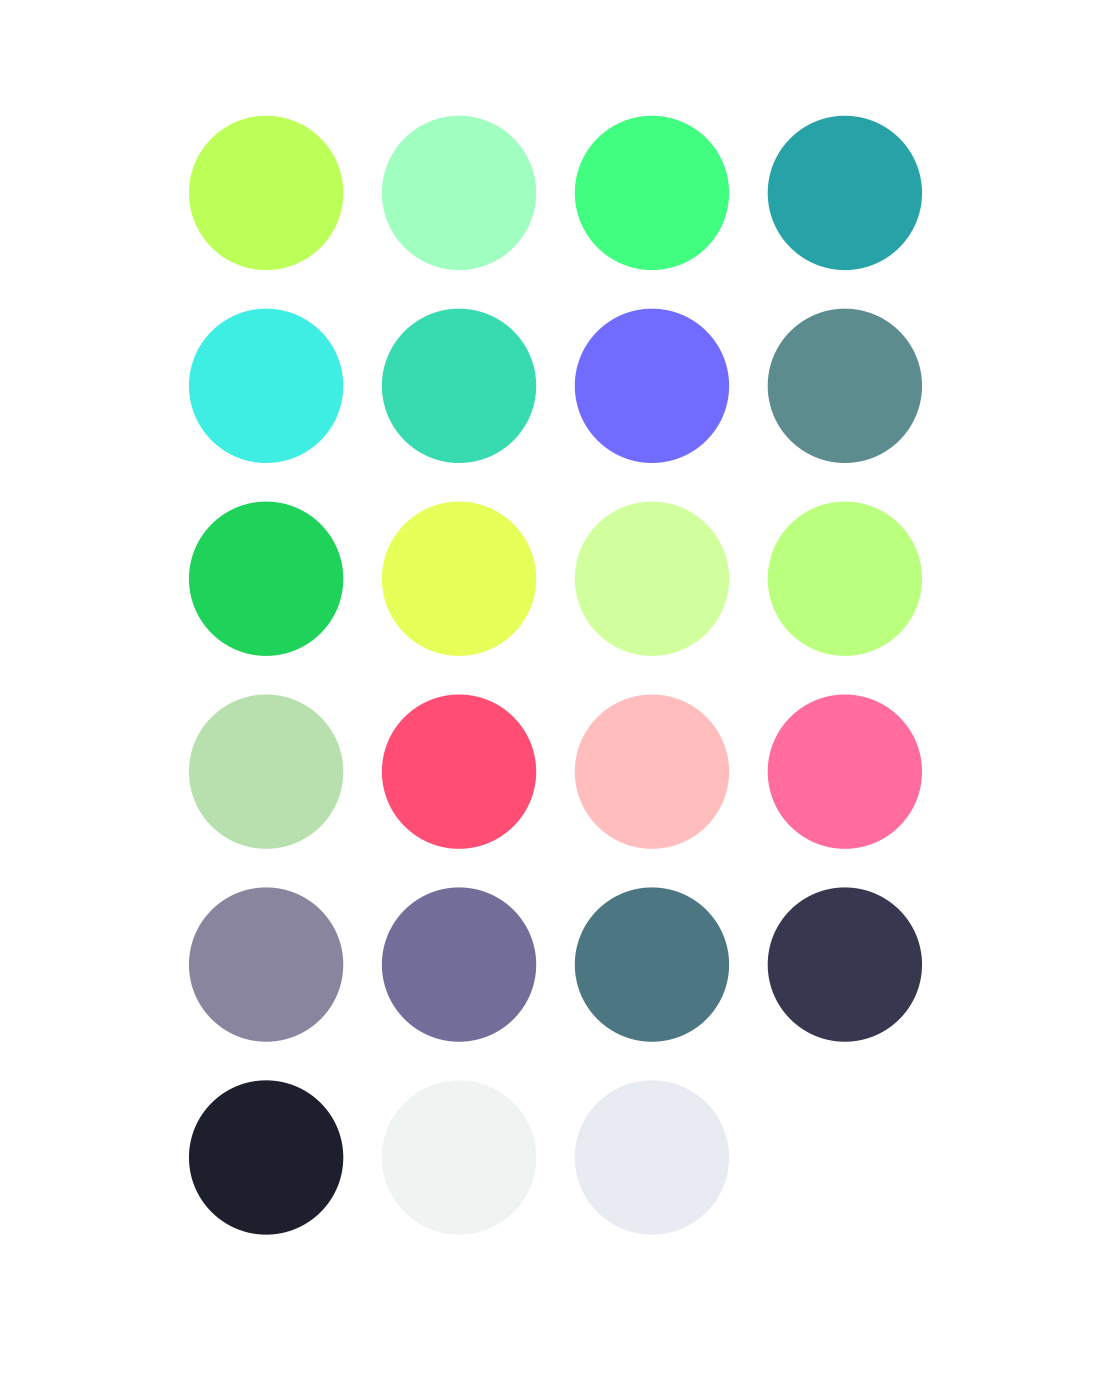
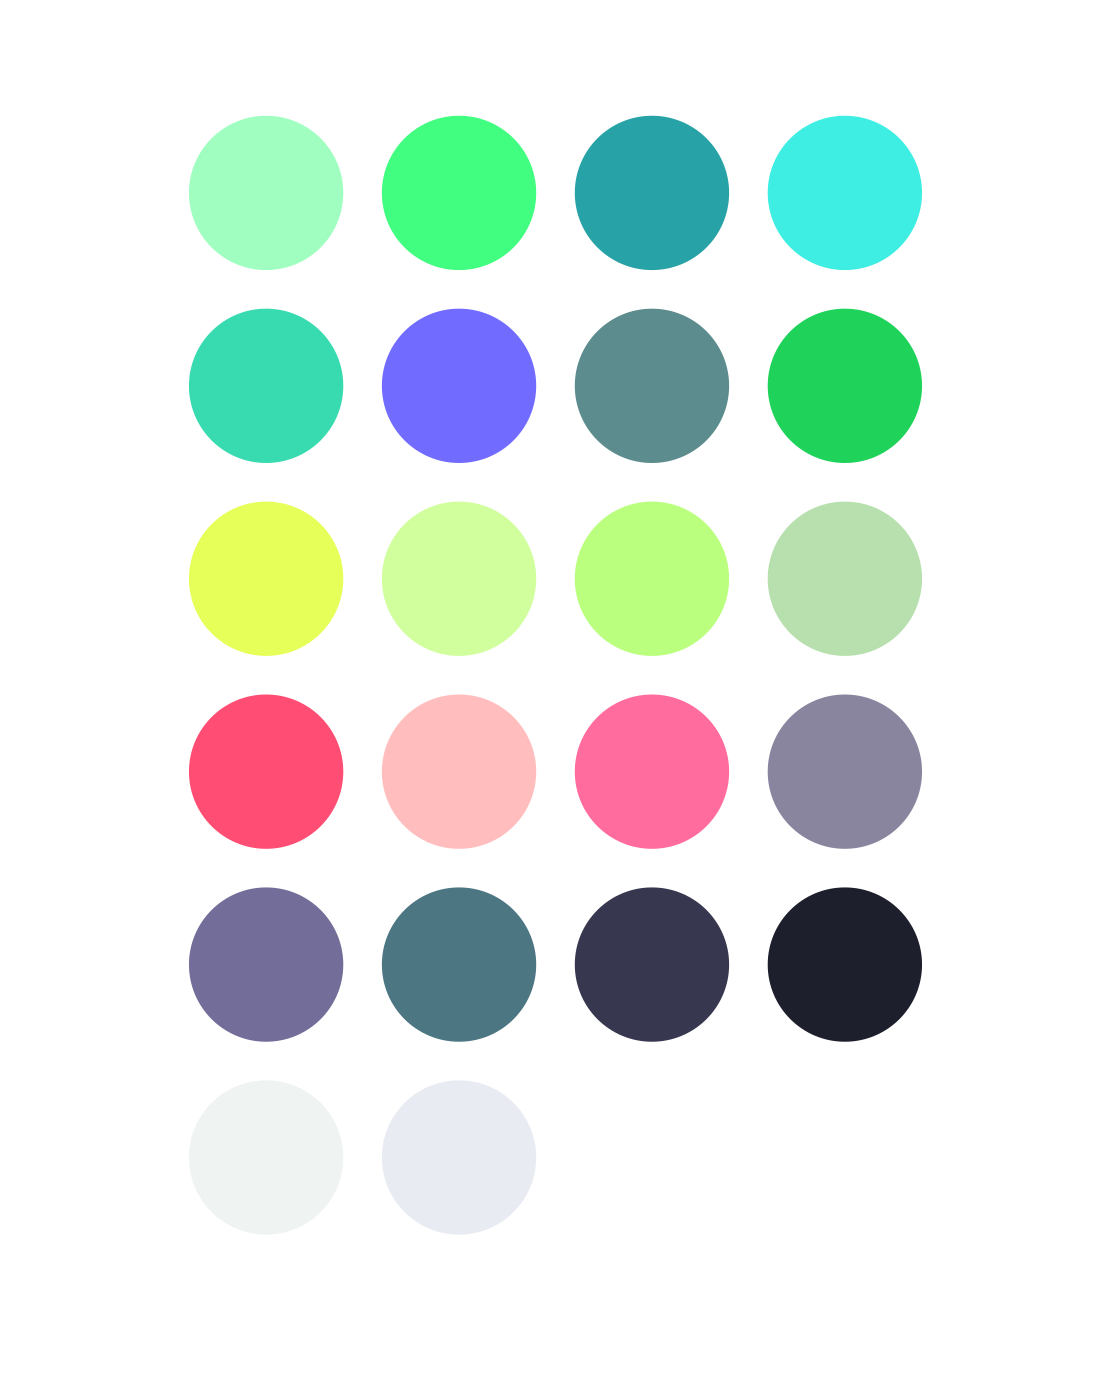
we do a little theming

diff --git a/src/theme.ts b/src/theme.ts
@@ -1,6 +1,5 @@
 const base = {
   colors: {
-    brightYellow: '#bdff59',
     brightMint: '#a0ffc0',
     brightGreen: '#41fd80',
     blueishGreen: '#27a2a6',
@@ -114,13 +113,13 @@ function schema({ colors, styles }: { colors: Palette; styles: any }) {
         "editorInfo.foreground": "${colors.yellow}",
         "editorInlineHint.background": "${colors.gray}",
         "editorInlineHint.foreground": "${colors.bg}",
-        "editorLightBulb.foreground": "${colors.brightYellow}",
+        "editorLightBulb.foreground": "${colors.prescientYellow}",
         "editorLightBulbAutoFix.foreground": "${colors.yellow}",
         "editorLineNumber.activeForeground": "${colors.brightMint}",
         "editorMarkerNavigation.background": "#2d2d30",
         "editorMarkerNavigationError.background": "${colors.hotRed}",
         "editorMarkerNavigationInfo.background": "${colors.yellow}",
-        "editorMarkerNavigationWarning.background": "${colors.brightYellow}",
+        "editorMarkerNavigationWarning.background": "${colors.prescientYellow}",
         "editorOverviewRuler.addedForeground": "${colors.brightGreen}99",
         "editorOverviewRuler.border": "${colors.transparent}",
         "editorOverviewRuler.bracketMatchForeground": "#a0a0a0",
@@ -134,13 +133,13 @@ function schema({ colors, styles }: { colors: Palette; styles: any }) {
         "editorOverviewRuler.modifiedForeground": "${colors.lightYellow}99",
         "editorOverviewRuler.rangeHighlightForeground": "${colors.lightYellow}99",
         "editorOverviewRuler.selectionHighlightForeground": "#a0a0a0cc",
-        "editorOverviewRuler.warningForeground": "${colors.brightYellow}",
+        "editorOverviewRuler.warningForeground": "${colors.prescientYellow}",
         "editorOverviewRuler.wordHighlightForeground": "#a0a0a0cc",
         "editorOverviewRuler.wordHighlightStrongForeground": "${colors.lightYellow}cc",
         "editorPane.background": "${colors.bg}",
         "editorRuler.foreground": "${colors.offWhite}10",
         "editorUnnecessaryCode.opacity": "${colors.black}aa",
-        "editorWarning.foreground": "${colors.brightYellow}",
+        "editorWarning.foreground": "${colors.prescientYellow}",
         "editorWhitespace.foreground": "${colors.focus}",
         "editorWidget.border": "${colors.gray}",
         "editorWidget.foreground": "${colors.gray}",
@@ -154,7 +153,7 @@ function schema({ colors, styles }: { colors: Palette; styles: any }) {
         "inputValidation.errorBorder": "${colors.hotRed}",
         "inputValidation.errorForeground": "${colors.hotRed}",
         "inputValidation.infoBorder": "${colors.lightYellow}",
-        "inputValidation.warningBorder": "${colors.brightYellow}",
+        "inputValidation.warningBorder": "${colors.prescientYellow}",
         "notifications.background": "${colors.bg}",
         "notifications.foreground": "${colors.offWhite}",
         "panel.border": "${colors.black}30",
@@ -200,13 +199,13 @@ function schema({ colors, styles }: { colors: Palette; styles: any }) {
         "terminal.ansiBrightMagenta": "${colors.pink}",
         "terminal.ansiBrightRed": "${colors.hotRed}",
         "terminal.ansiBrightWhite": "${colors.white}",
-        "terminal.ansiBrightYellow": "${colors.brightYellow}",
+        "terminal.ansiprescientYellow": "${colors.prescientYellow}",
         "terminal.ansiCyan": "${colors.lightYellow}",
         "terminal.ansiGreen": "${colors.brightMint}",
         "terminal.ansiMagenta": "${colors.pink}",
         "terminal.ansiRed": "${colors.hotRed}",
         "terminal.ansiWhite": "${colors.white}",
-        "terminal.ansiYellow": "${colors.brightYellow}",
+        "terminal.ansiYellow": "${colors.prescientYellow}",
         "textLink.activeForeground": "${colors.yellow}",
         "textLink.foreground": "${colors.yellow}",
         "titleBar.activeBackground": "${colors.bg}",
@@ -234,18 +233,18 @@ function schema({ colors, styles }: { colors: Palette; styles: any }) {
         "charts.orange": "${colors.lightYellow}",
         "charts.purple": "${colors.pink}",
         "charts.red": "${colors.hotRed}",
-        "charts.yellow": "${colors.brightYellow}",
+        "charts.yellow": "${colors.prescientYellow}",
         "checkbox.background": "${colors.bg}",
         "checkbox.border": "${colors.white}10",
         "checkbox.foreground": "${colors.offWhite}",
         "debugConsole.errorForeground": "${colors.hotRed}",
         "debugConsole.infoForeground": "${colors.yellow}",
         "debugConsole.sourceForeground": "${colors.gray}",
-        "debugConsole.warningForeground": "${colors.brightYellow}",
+        "debugConsole.warningForeground": "${colors.prescientYellow}",
         "debugConsoleInputIcon.foreground": "${colors.gray}",
         "debugExceptionWidget.background": "${colors.hotRed}",
         "debugExceptionWidget.border": "${colors.hotRed}",
-        "debugIcon.breakpointCurrentStackframeForeground": "${colors.brightYellow}",
+        "debugIcon.breakpointCurrentStackframeForeground": "${colors.prescientYellow}",
         "debugIcon.breakpointDisabledForeground": "${colors.lighterGreen}",
         "debugIcon.breakpointForeground": "${colors.hotRed}",
         "debugIcon.breakpointStackframeForeground": "${colors.brightGreen}",
@@ -280,7 +279,7 @@ function schema({ colors, styles }: { colors: Palette; styles: any }) {
         "extensionBadge.remoteBackground": "${colors.prescientGreen}",
         "extensionBadge.remoteForeground": "${colors.bg}",
         "extensionButton.prominentForeground": "${colors.white}",
-        "extensionIcon.starForeground": "${colors.brightYellow}",
+        "extensionIcon.starForeground": "${colors.prescientYellow}",
         "foreground": "${colors.gray}",
         "gitDecoration.addedResourceForeground": "${colors.prescientGreen}",
         "gitDecoration.conflictingResourceForeground": "${colors.hotRed}",
@@ -304,8 +303,8 @@ function schema({ colors, styles }: { colors: Palette; styles: any }) {
         "list.dropBackground": "${colors.bluishGray}",
         "list.filterMatchBackground": "${colors.lightYellow}60",
         "list.focusOutline": "${colors.transparent}",
-        "list.invalidItemForeground": "${colors.brightYellow}",
-        "list.warningForeground": "${colors.brightYellow}",
+        "list.invalidItemForeground": "${colors.prescientYellow}",
+        "list.warningForeground": "${colors.prescientYellow}",
         "listFilterWidget.background": "${colors.focus}",
         "listFilterWidget.noMatchesOutline": "${colors.hotRed}",
         "listFilterWidget.outline": "${colors.transparent}",
@@ -335,7 +334,7 @@ function schema({ colors, styles }: { colors: Palette; styles: any }) {
         "minimap.errorHighlight": "${colors.hotRed}",
         "minimap.findMatchHighlight": "${colors.yellow}",
         "minimap.selectionHighlight": "${colors.offWhite}40",
-        "minimap.warningHighlight": "${colors.brightYellow}",
+        "minimap.warningHighlight": "${colors.prescientYellow}",
         "minimapGutter.addedBackground": "${colors.brightGreen}80",
         "minimapGutter.deletedBackground": "${colors.hotRed}80",
         "minimapGutter.modifiedBackground": "${colors.yellow}80",
@@ -366,7 +365,7 @@ function schema({ colors, styles }: { colors: Palette; styles: any }) {
         "notifications.border": "${colors.focus}",
         "notificationsErrorIcon.foreground": "${colors.hotRed}",
         "notificationsInfoIcon.foreground": "${colors.yellow}",
-        "notificationsWarningIcon.foreground": "${colors.brightYellow}",
+        "notificationsWarningIcon.foreground": "${colors.prescientYellow}",
         "panel.background": "${colors.bg}",
         "panel.dropBorder": "${colors.gray}",
         "panelSection.border": "${colors.bg}",
@@ -385,7 +384,7 @@ function schema({ colors, styles }: { colors: Palette; styles: any }) {
         "pickerGroup.foreground": "${colors.lightYellow}",
         "problemsErrorIcon.foreground": "${colors.hotRed}",
         "problemsInfoIcon.foreground": "${colors.yellow}",
-        "problemsWarningIcon.foreground": "${colors.brightYellow}",
+        "problemsWarningIcon.foreground": "${colors.prescientYellow}",
         "progressBar.background": "${colors.lightYellow}",
         "quickInput.background": "${colors.bg}",
         "quickInput.foreground": "${colors.gray}",
@@ -427,13 +426,13 @@ function schema({ colors, styles }: { colors: Palette; styles: any }) {
         "statusBarItem.remoteForeground": "${colors.bg}",
         "symbolIcon.arrayForeground": "${colors.gray}",
         "symbolIcon.booleanForeground": "${colors.gray}",
-        "symbolIcon.classForeground": "${colors.brightYellow}",
+        "symbolIcon.classForeground": "${colors.prescientYellow}",
         "symbolIcon.colorForeground": "${colors.gray}",
         "symbolIcon.constantForeground": "${colors.gray}",
         "symbolIcon.constructorForeground": "${colors.pink}",
-        "symbolIcon.enumeratorForeground": "${colors.brightYellow}",
+        "symbolIcon.enumeratorForeground": "${colors.prescientYellow}",
         "symbolIcon.enumeratorMemberForeground": "${colors.yellow}",
-        "symbolIcon.eventForeground": "${colors.brightYellow}",
+        "symbolIcon.eventForeground": "${colors.prescientYellow}",
         "symbolIcon.fieldForeground": "${colors.yellow}",
         "symbolIcon.fileForeground": "${colors.gray}",
         "symbolIcon.folderForeground": "${colors.gray}",
@@ -467,7 +466,7 @@ function schema({ colors, styles }: { colors: Palette; styles: any }) {
         "testing.iconErrored": "${colors.hotRed}",
         "testing.iconFailed": "${colors.hotRed}",
         "testing.iconPassed": "${colors.brightMint}",
-        "testing.iconQueued": "${colors.brightYellow}",
+        "testing.iconQueued": "${colors.prescientYellow}",
         "testing.iconSkipped": "${colors.lighterGreen}",
         "testing.iconUnset": "${colors.lighterGreen}",
         "testing.message.error.decorationForeground": "${colors.hotRed}",
@@ -475,8 +474,8 @@ function schema({ colors, styles }: { colors: Palette; styles: any }) {
         "testing.message.hint.decorationForeground": "${colors.lighterGreen}b3",
         "testing.message.info.decorationForeground": "${colors.yellow}",
         "testing.message.info.lineBackground": "${colors.lightYellow}33",
-        "testing.message.warning.decorationForeground": "${colors.brightYellow}",
-        "testing.message.warning.lineBackground": "${colors.brightYellow}33",
+        "testing.message.warning.decorationForeground": "${colors.prescientYellow}",
+        "testing.message.warning.lineBackground": "${colors.prescientYellow}33",
         "testing.peekBorder": "${colors.hotRed}",
         "testing.runAction": "${colors.brightMint}",
         "textBlockQuote.background": "${colors.lighterGreen}1a",
@@ -565,7 +564,7 @@ function schema({ colors, styles }: { colors: Palette; styles: any }) {
             "variable.language.this", "storage.modifier.async", "storage.modifier", "variable.language.super"
           ],
           "settings": {
-            "foreground": "${colors.brightMint}",
+            "foreground": "${colors.prescientGreen}",
             "fontStyle": "italic"
           }
         },
@@ -1128,7 +1127,7 @@ function schema({ colors, styles }: { colors: Palette; styles: any }) {
         {
           "scope": "token.warn-token",
           "settings": {
-            "foreground": "${colors.brightYellow}"
+            "foreground": "${colors.prescientYellow}"
           }
         },
         {
